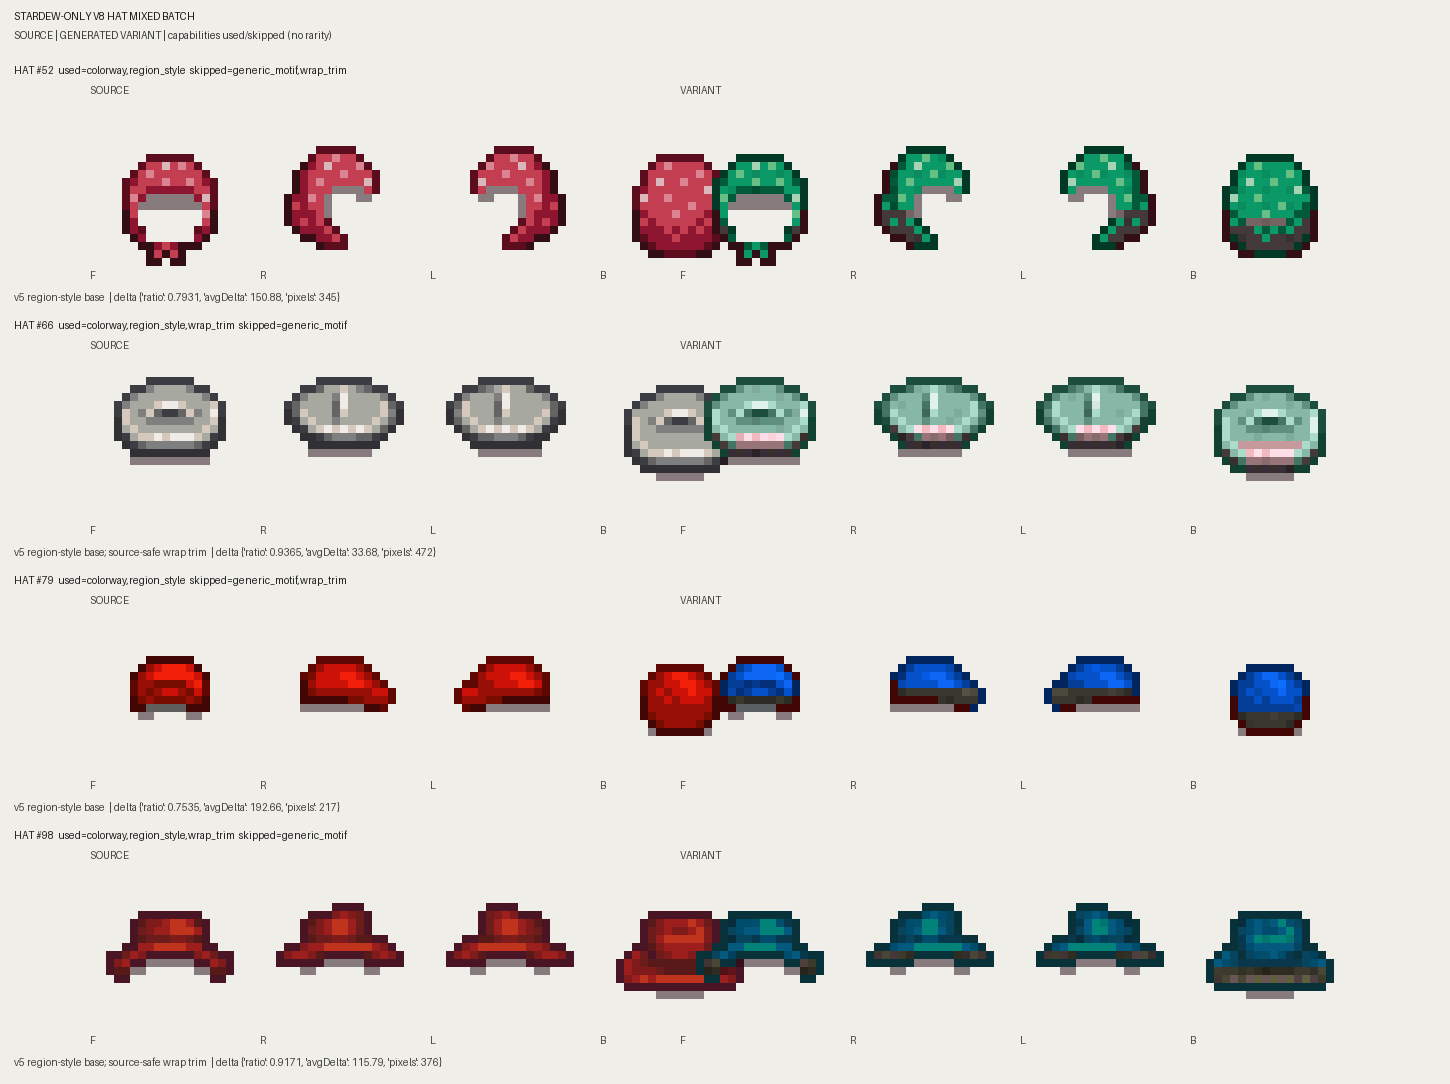
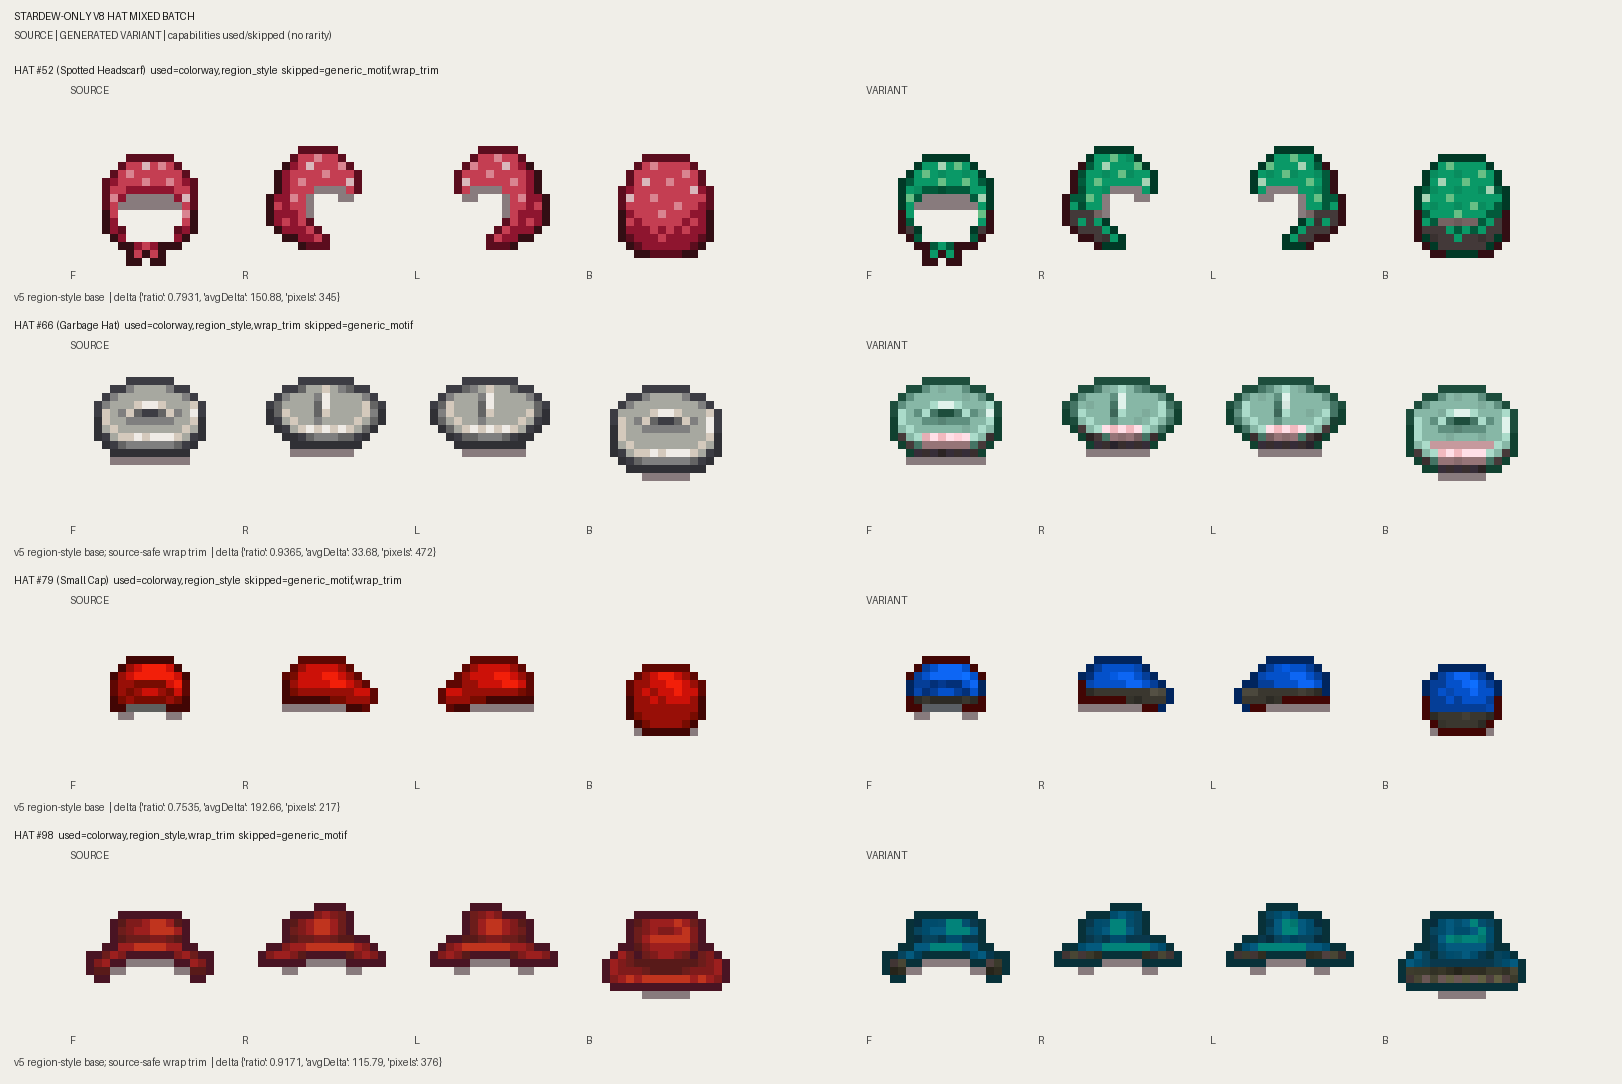
Fix Stardew-only v8 hat contact layout

diff --git a/tools/experiment_vanilla_mixed_batch_v8.py b/tools/experiment_vanilla_mixed_batch_v8.py
@@ -14,6 +14,7 @@ VIEWS=('front','right','left','back')
 HATS=Image.open(GAME/'hats.png').convert('RGBA')
 SHIRTS=Image.open(GAME/'shirts.png').convert('RGBA')
 PALETTES={p['id']:p for p in json.loads((ROOT/'authored/palettes.json').read_text())['palettes']}
+HAT_DATA=json.loads((GAME.parent.parent/'Data/hats.json').read_text()) if (GAME.parent.parent/'Data/hats.json').exists() else {}
 REVIEW=json.loads((V7/'vanilla_donor_vocabulary_reviewed.json').read_text())['categories']
 CATALOG=json.loads((V7/'capability_catalog.json').read_text())['records']
 CAP={(r['kind'],r['index']):r for r in CATALOG}
@@ -104,19 +105,29 @@ def fallback_colorway(source,theme):
      im.putpixel((x,y),tint_keep_luma(p,tgt,.76))
  return out
 
+def hat_name(idx):
+ raw=HAT_DATA.get(str(idx),'')
+ return raw.split('/')[0] if raw else ''
+
 def contact(records,kind,path):
  rows=[r for r in records if r['kind']==kind];sc=8 if kind=='hat' else 14; size=20 if kind=='hat' else 8
- W=1450;rowh=255 if kind=='hat' else 230;H=64+len(rows)*rowh
+ framew=size*sc; gap=12
+ groupw=4*framew+3*gap
+ source_x=70
+ variant_x=source_x+groupw+(120 if kind=='hat' else 110)
+ W=variant_x+groupw+80
+ rowh=255 if kind=='hat' else 230;H=64+len(rows)*rowh
  s=Image.new('RGBA',(W,H),(240,238,232,255));d=ImageDraw.Draw(s)
  d.text((14,10),f'STARDEW-ONLY V8 {kind.upper()} MIXED BATCH',fill=(20,20,20,255))
  d.text((14,29),'SOURCE | GENERATED VARIANT | capabilities used/skipped (no rarity)',fill=(55,55,55,255))
  for ri,r in enumerate(rows):
   y0=64+ri*rowh;f=OUT/r['dir']
-  d.text((14,y0),f"{kind.upper()} #{r['sourceIndex']}  used={','.join(r['used']) or 'none'}  skipped={','.join(r['skipped']) or 'none'}",fill=(30,30,30,255))
-  for ci,(lab,pref) in enumerate((('SOURCE','source'),('VARIANT','variant'))):
-   x0=90+ci*590;d.text((x0,y0+20),lab,fill=(65,65,65,255));x=x0
+  nm=f" ({hat_name(r['sourceIndex'])})" if kind=='hat' and hat_name(r['sourceIndex']) else ''
+  d.text((14,y0),f"{kind.upper()} #{r['sourceIndex']}{nm}  used={','.join(r['used']) or 'none'}  skipped={','.join(r['skipped']) or 'none'}",fill=(30,30,30,255))
+  for x0,lab,pref in ((source_x,'SOURCE','source'),(variant_x,'VARIANT','variant')):
+   d.text((x0,y0+20),lab,fill=(65,65,65,255));x=x0
    for v in VIEWS:
-    im=Image.open(f/f'{pref}_{v}.png').convert('RGBA');big=im.resize((size*sc,size*sc),Image.Resampling.NEAREST);s.alpha_composite(big,(x,y0+42));d.text((x,y0+45+size*sc),v[0].upper(),fill=(70,70,70,255));x+=size*sc+10
+    im=Image.open(f/f'{pref}_{v}.png').convert('RGBA');big=im.resize((framew,framew),Image.Resampling.NEAREST);s.alpha_composite(big,(x,y0+42));d.text((x,y0+45+framew),v[0].upper(),fill=(70,70,70,255));x+=framew+gap
   d.text((14,y0+rowh-28),f"{r['notes']}  | delta {r['difference']}",fill=(65,65,65,255))
  s.save(path)
 

diff --git a/CURRENT_STATE.md b/CURRENT_STATE.md
@@ -1729,3 +1729,9 @@ The first render was rejected internally because all six shirt targets selected 
 The four hats (#52, #66, #79, #98) deliberately skip generic motifs. They use only already-proven source-safe colorway / region-style / wrap-trim axes when supported. This follows the v7 finding that vanilla hat variety is primarily construction/component-driven rather than a universal motif system.
 
 All 10 outputs preserve exact source alpha/geometry. Contact sheets: `STARDEW_ONLY_V8_HAT_MIXED_CONTACT.png` and `STARDEW_ONLY_V8_SHIRT_MIXED_CONTACT.png`. This proves that a vanilla-only content path can select different decoration/styling capabilities per garment instead of applying one universal transformation. The next remaining question is whether compatible vanilla donor constructions/components can safely create stronger hat and clothing variation without leaving Stardew-native design language.
+
+## Stardew-only v8 contact-sheet overlap fix — 2026-09-28
+
+User visually flagged hat #79 and #98 generated rows as failures and questioned hat #66. Inspection of the individual 20x20 output PNGs showed #79/#98 were not broken: the V8 hat contact-sheet renderer placed the SOURCE 4-view group directly against the VARIANT group with no inter-group spacing, so the source Back frame overlapped the variant Front frame and made the generated hats look like two sprites mashed together. `tools/experiment_vanilla_mixed_batch_v8.py` now computes group width dynamically and inserts a dedicated gap between SOURCE and VARIANT groups. The regenerated `STARDEW_ONLY_V8_HAT_MIXED_CONTACT.png` shows clean, separate frames.
+
+Hat labels now include vanilla names when available. Hat #66 is confirmed from vanilla `Data/hats.json` as `Garbage Hat`; its round trash-can-lid / donut-like read is source-authentic, not a generator defect. Hat #79 is `Small Cap`. No generated hat geometry was changed by this correction; this was a QC presentation bug only.
